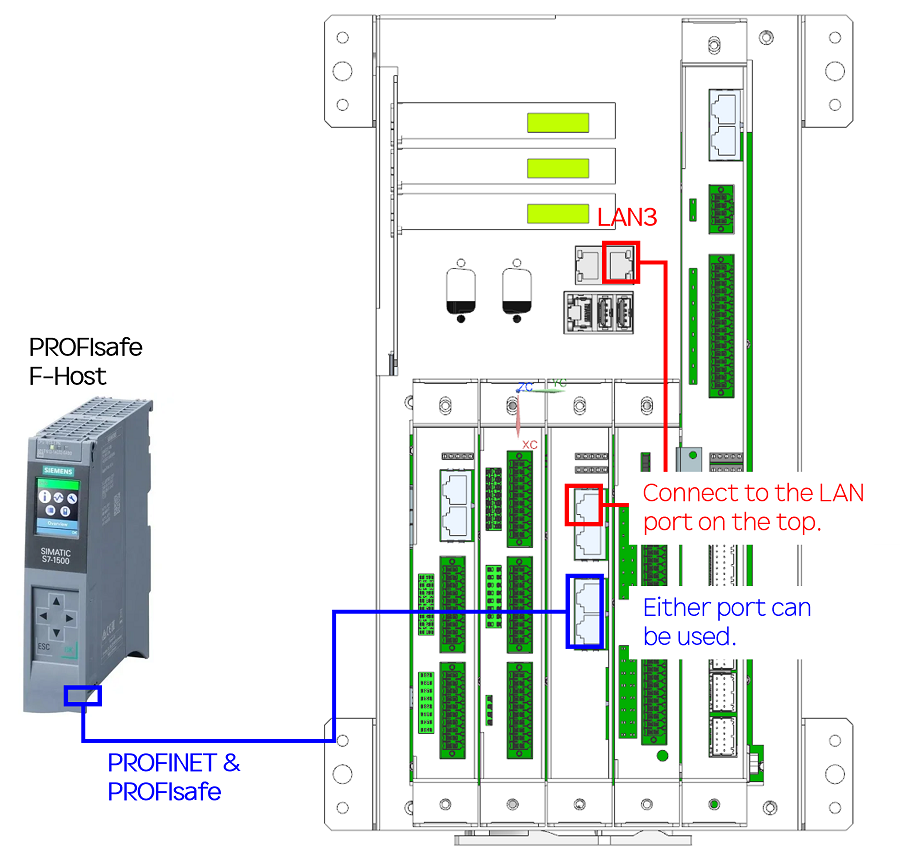
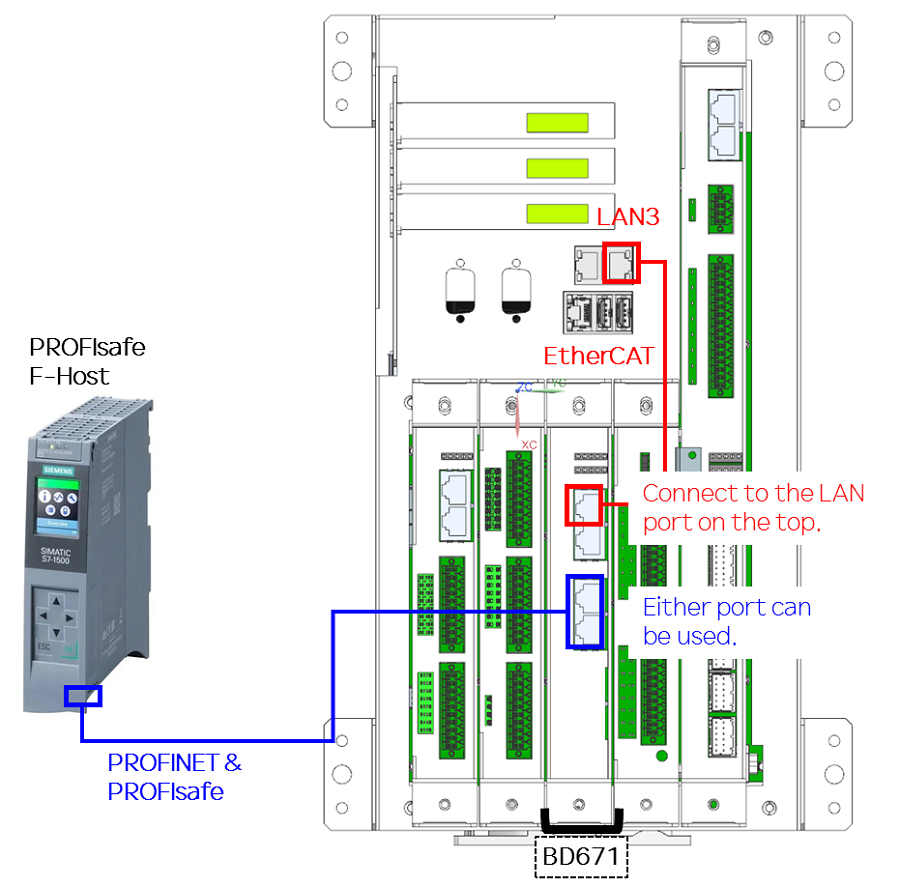
PROFIsafe 그림제목 삭제 및 그림 수정

Changed region(s): [[0.0, 0.0, 0.9644, 1.0], [0.1556, 0.548, 0.1867, 0.5785]]

diff --git a/3-safety-function/3-safety-function/4-safety-io/4-profisafe.md b/3-safety-function/3-safety-function/4-safety-io/4-profisafe.md
@@ -13,10 +13,13 @@
 - 안전 입출력 : 8/8 bytes (활성 or 비활성화) 
 - 최소 통신 주기 : 1 msec
 - 지원 통신 속도 : 10 or 100 Mbps
+- Conformance Class : B
+- Netload Class : II
+- Optional Feature : Legacy, MRP
 
 ## 3. PROFIsafe 파라미터
 
-![PROFIsafe](../../../_assets/safetyio_profisafe/profisafe_param.png)
+![](../../../_assets/safetyio_profisafe/profisafe_param.png)
 
  - Source Address : Source Address를 설정합니다. (1로 고정)
  - Target Address : Target Address를 설정합니다. (설정 범위 : 1 ~ 99)
@@ -49,7 +52,7 @@
 3) Hi7 COM의 LAN3 커넥터와 BD671를 랜선으로 연결한다.
 4) Link LED가 점멸하는지 확인한다.
 
-![PROFIsafe](../../../_assets/safetyio_profisafe/profisafe_connect.png)
+![](../../../_assets/safetyio_profisafe/profisafe_connect.png)
 
 #### 4.1.2 Hi7 Com의 연결 설정
 1) 다음과 같이 메뉴를 이동 시스템 -> 제어 파라미터 -> 산업용 통신-> EtherCAT Master 설정
@@ -60,9 +63,9 @@
 4) Hi7 로봇제어기를 재부팅한다.
 5) 재부팅후 Run & Communication & Error LED 점등 상태를 확인한다.
 
-![PROFIsafe](../../../_assets/safetyio_profisafe/EC_master_setting1.png)
+![](../../../_assets/safetyio_profisafe/EC_master_setting1.png)
 <br> <br>
-![PROFIsafe](../../../_assets/safetyio_profisafe/EC_master_setting2.png)
+![](../../../_assets/safetyio_profisafe/EC_master_setting2.png)
 
 
 ### 4.2 GSDML 파일 등록 (TIA Portal)
@@ -71,23 +74,23 @@
 3) “…” 버튼 클릭 후 and GSDML file이 있는 디렉토리를 설정한다.
 4) 화면에 표시된 리스트에서 “GSDML-V2.43-Hyundai-Robotics-HI6-20250418.xml”를 선택하고 [Install] 버튼을 누른다.
 5) 하드웨어 카탈로그에 새로운 장치로 등록되었는지 확인한다. <br>
-![PROFIsafe](../../../_assets/safetyio_profisafe/profisafe_gsdmal.png)
+![](../../../_assets/safetyio_profisafe/profisafe_gsdmal.png)
 
 ### 4.3 PROFIsafe 컨트롤러 설정 (TIA Portal)
 #### 4.3.1 PROFINET 설정
 1) TIA Portal을 실행시키고 새 프로젝트를 생성한다.
 2) Device & Network 부분을 더블클릭하여 오픈한다.<br>
-![PROFIsafe](../../../_assets/safetyio_profisafe/profisafe_device_network.png)
+![](../../../_assets/safetyio_profisafe/profisafe_device_network.png)
 
 3) PROFIsafe 통신을 지원하는 컨트롤러(예 CPU 1511F-1 PN)를 선택하여 네트워크 뷰쪽으로 끌어다 놓는다.
 4) 하드웨어 카탈로그에서 이전 단계에서 추가한 장치(HRC, PROFINET I/O DAP)를 추가하고 네트워크 뷰쪽으로 끌어다 놓는다.
 5) 두 장치 그림에서 랜포트를 마우스 드래그&드랍으로 서로 연결한다.<br>
-![PROFIsafe](../../../_assets/safetyio_profisafe/profisafe_device_network2.png)
+![](../../../_assets/safetyio_profisafe/profisafe_device_network2.png)
 
 6) “Device & Network”화면에서 HRC-IO 장치를 더블 클릭
 7) 원하는 슬롯을 선택한다.
 8) 오른쪽 카탈로그에서 원하는 모듈을(DI, DO, or PROFIsafe I/O) 드래그하여 "Device Overview window"로 이동시킨다.<br>
-![PROFIsafe](../../../_assets/safetyio_profisafe/profisafe_device_network3.png)
+![](../../../_assets/safetyio_profisafe/profisafe_device_network3.png)
 
 9) “Device & Network”화면에서 HRC-IO 장치를 더블 클릭
 10) HRC-IO장치를 다시 클릭하여 Setting화면을 오픈
@@ -95,7 +98,7 @@
 12) 왼쪽 메뉴에서 Ethernet addresses 선택
 13) “Generate PROFINET device name automatically.” 부분 체크 해제
 14) "PROFINET device name"을 "hd-hrc-0"로 설정하고 저장함.<br>
-![PROFIsafe](../../../_assets/safetyio_profisafe/profisafe_device_network4.png)
+![](../../../_assets/safetyio_profisafe/profisafe_device_network4.png)
 
 #### 4.3.2 PROFIsafe 설정
 1) “Device & Network”화면에서 HRC-IO 장치를 더블 클릭
@@ -114,32 +117,32 @@
 - Slot 3 : Safety I/O : Yes
 - (IP주소는 변경 필요 없음.)
 2) "적용" 버튼을 누른다.<br>
-![PROFIsafe](../../../_assets/safetyio_profisafe/4_1_profinet_config.png)
+![](../../../_assets/safetyio_profisafe/4_1_profinet_config.png)
 
 #### 4.4.2 PROFIsafe 설정
 
 1) 이전장에서 설정했던 똑같은 값으로 Target Address를 1로 설정한다.
 2) "적용" 버튼을 누른다.<br>
-![PROFIsafe](../../../_assets/safetyio_profisafe/4_2_profisafe_config.png)
+![](../../../_assets/safetyio_profisafe/4_2_profisafe_config.png)
 
 ### 4.5 PROFINET과 PROFIsafe 통신의 확인
 
 ### 4.5.1 안전 래더 프로그램 (Tia Portal)
 1) Device Overview 탭 에서, 아래와 같이 래더 프로그램을 만들고 컨트롤러로 다운로드 한다.<br>
-![래더 프로그램](../../../_assets/safetyio_profisafe/5_1_Safety_Ladder.png)
+![](../../../_assets/safetyio_profisafe/5_1_Safety_Ladder.png)
 2) 다운로드 후, Distribution I/O 화면에서 녹색 체크 박스가 표시되었는지 확인한다.<br>
-![래더 프로그램](../../../_assets/safetyio_profisafe/5_1_Safety_Ladder2.png)
+![](../../../_assets/safetyio_profisafe/5_1_Safety_Ladder2.png)
 
 ### 4.5.2 TP 화면
 1) PROFINET
 메뉴에서 시스템 -> 안전시스템 -> 모니터링 -> PROFINET 상태로 이동한다.<br>
-![PROFIsafe](../../../_assets/safetyio_profisafe/5_2_pnio_status.png)
+![](../../../_assets/safetyio_profisafe/5_2_pnio_status.png)
 - 각 슬롯의 상태 정보를 확인
 - Counter가 지속 증가하는지 확인
 
 2) PROFIsafe
 메뉴에서 시스템 -> 안전시스템 -> 모니터링 -> PROFIsafe 상태로 이동한다.<br>
-![PROFIsafe](../../../_assets/safetyio_profisafe/5_2_profisafe_status.png)
+![](../../../_assets/safetyio_profisafe/5_2_profisafe_status.png)
 - FappState가 CYCLE Data EX 인지 확인
 - Counter가 지속 증가하는지 확인
 
@@ -147,12 +150,12 @@
 1) 시스템 → 제어 파라미터 → 입출력 신호 설정 → FB 블럭 할당으로 이동
 2) 2개 이하로 필요한 만큼 블럭 설정을 PROFINET I/O로 변경한다.
  (최대 PROFINET I/O 사이즈는 240바이트이고 개별 FB 블럭의 사이즈는 120바이트 입니다. 따라서 **2개를 초과하는 설정은 무시됩니다.**)<br>
-![PROFIsafe](../../../_assets/safetyio_profisafe/6_fb_block.png)
+![](../../../_assets/safetyio_profisafe/6_fb_block.png)
 
 3) 추가로 조건 설정 메뉴로 이동하여 PLC 동작 모드가 OFF되어 있는지 확인합니다.<br>
-![PROFIsafe](../../../_assets/safetyio_profisafe/6_1_condition.png)
+![](../../../_assets/safetyio_profisafe/6_1_condition.png)
 4) TIA Portal과 범용 I/O 화면에서 입출력 신호 확인<br>
-![PROFIsafe](../../../_assets/safetyio_profisafe/6_3_public_io.png)
+![](../../../_assets/safetyio_profisafe/6_3_public_io.png)
 
 ### 4.7 PROFIsafe I/O 신호의 할당
 1) PROFIsafe I/O 신호의 할당
@@ -162,16 +165,16 @@
 <br>
 <br>2-1) PROFIsafe 입력 (Master -> Slave 방향)
 [1ch(0 bit)을 Arm Limit으로 설정] <br>
-![PROFIsafe](../../../_assets/safetyio_profisafe/7_PS_in.png)
+![](../../../_assets/safetyio_profisafe/7_PS_in.png)
 <br> <br>
-![PROFIsafe](../../../_assets/safetyio_profisafe/7_PS_in2.png)
+![](../../../_assets/safetyio_profisafe/7_PS_in2.png)
 <br> <br>
 2-2) PROFIsafe 출력 (Slave -> Master 방향)
 <br> <br>
 [1ch(0 bit) 비상 정지 상태로 설정]<br>
-![PROFIsafe](../../../_assets/safetyio_profisafe/7_PS_out.png)
+![](../../../_assets/safetyio_profisafe/7_PS_out.png)
 <br> <br>
-![PROFIsafe](../../../_assets/safetyio_profisafe/7_PS_out2.png)
+![](../../../_assets/safetyio_profisafe/7_PS_out2.png)
 
 
 
